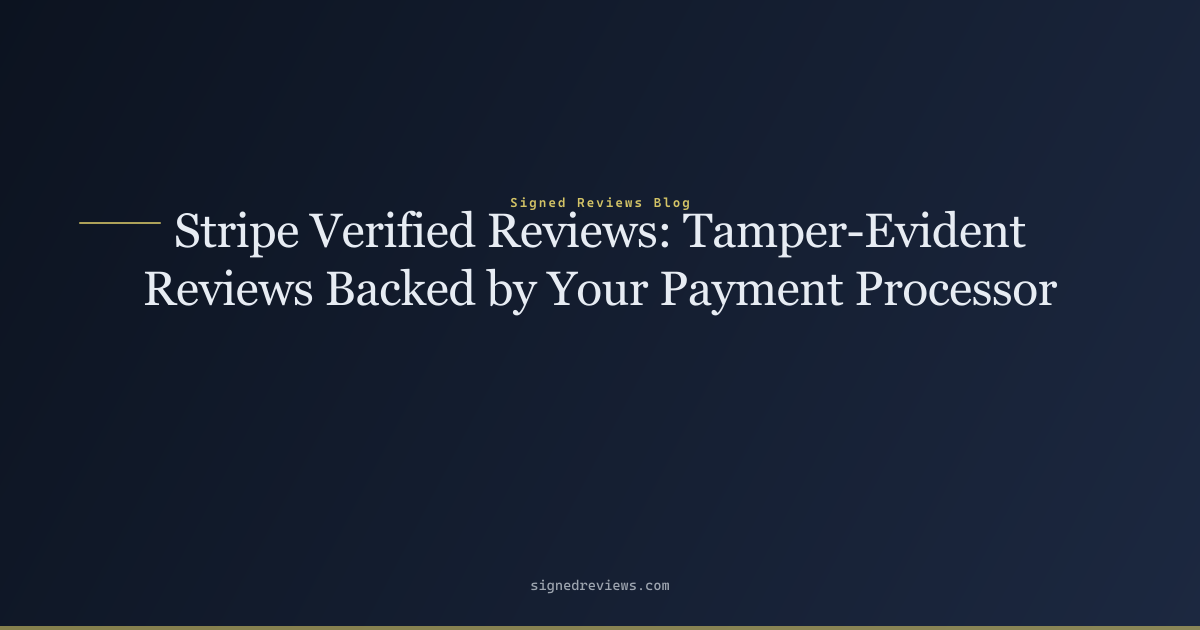
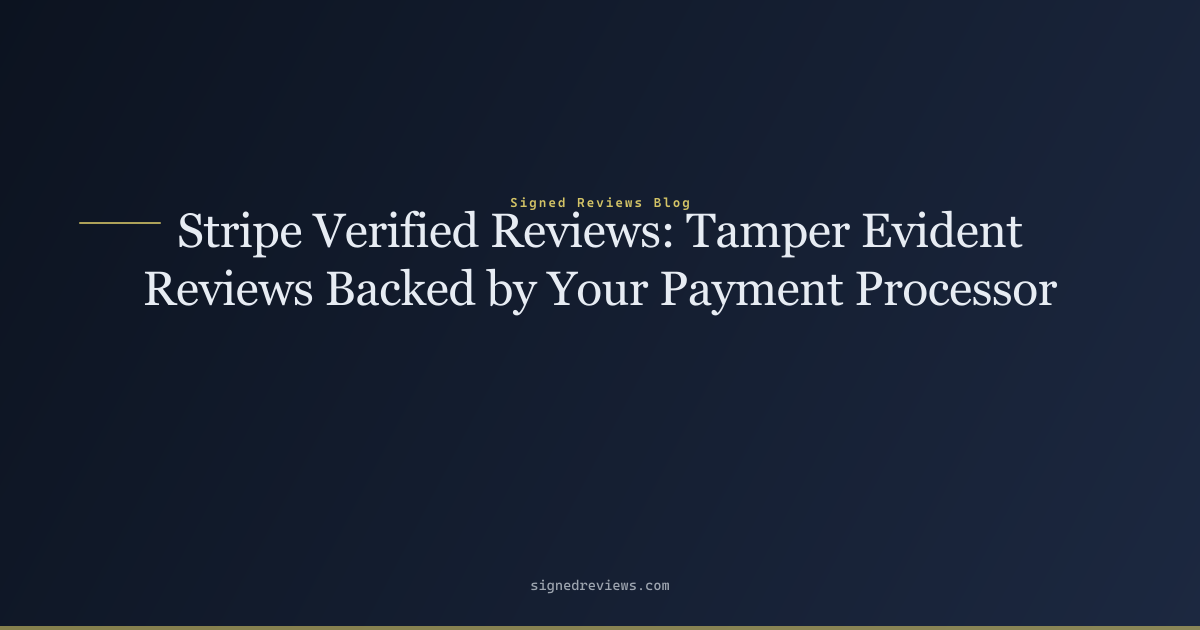
SEO: fix tamper evident reviews — non-hyphenated in title + H2
- Title: use non-hyphenated 'Tamper Evident Reviews' for exact keyword match
- H2: add keyword to 'What makes tamper evident reviews different'

Changed region(s): [[0.1233, 0.3317, 0.8633, 0.4222]]

diff --git a/blog/stripe-verified-reviews/index.html b/blog/stripe-verified-reviews/index.html
@@ -3,20 +3,20 @@
 <head>
   <meta charset="UTF-8">
   <meta name="viewport" content="width=device-width, initial-scale=1.0">
-  <title>Stripe Verified Reviews: Tamper-Evident Reviews Backed by Your Payment Processor — Signed Reviews Blog</title>
+  <title>Stripe Verified Reviews: Tamper Evident Reviews Backed by Your Payment Processor — Signed Reviews Blog</title>
   <meta name="description" content="Here's how Stripe verified reviews work, why tamper evident reviews are fundamentally different from every other &quot;verified&quot; badge, and how to start collecting t">
   <link rel="canonical" href="https://signedreviews.com/blog/stripe-verified-reviews/">
   <meta name="robots" content="index, follow">
   <meta name="theme-color" content="#0c1320">
 
   <meta property="og:type" content="website">
-  <meta property="og:title" content="Stripe Verified Reviews: Tamper-Evident Reviews Backed by Your Payment Processor — Signed Reviews Blog">
+  <meta property="og:title" content="Stripe Verified Reviews: Tamper Evident Reviews Backed by Your Payment Processor — Signed Reviews Blog">
   <meta property="og:description" content="Here's how Stripe verified reviews work, why tamper evident reviews are fundamentally different from every other &quot;verified&quot; badge, and how to start collecting t">
   <meta property="og:url" content="https://signedreviews.com/blog/stripe-verified-reviews/">
   <meta property="og:site_name" content="Signed Reviews">
   <meta property="og:image" content="https://signedreviews.com/images/SignedReviews_full_logo.png">
   <meta name="twitter:card" content="summary_large_image">
-  <meta name="twitter:title" content="Stripe Verified Reviews: Tamper-Evident Reviews Backed by Your Payment Processor — Signed Reviews Blog">
+  <meta name="twitter:title" content="Stripe Verified Reviews: Tamper Evident Reviews Backed by Your Payment Processor — Signed Reviews Blog">
   <meta name="twitter:description" content="Here's how Stripe verified reviews work, why tamper evident reviews are fundamentally different from every other &quot;verified&quot; badge, and how to start collecting t">
 
   <link rel="icon" href="/SignedReviews/favicon.svg" type="image/svg+xml">
@@ -483,7 +483,7 @@ main { padding: 0; }
     })();
   </script>
 
-  <script type="application/ld+json">{"@context":"https://schema.org","@type":"BlogPosting","headline":"Stripe Verified Reviews: Tamper-Evident Reviews Backed by Your Payment Processor","description":"Here's how Stripe verified reviews work, why tamper evident reviews are fundamentally different from every other \"verified\" badge, and how to start collecting t","datePublished":"2026-07-24 ·","author":{"@type":"Organization","name":"Signed Reviews"},"publisher":{"@type":"Organization","name":"Signed Reviews","logo":{"@type":"ImageObject","url":"https://signedreviews.com/images/SignedReviews_logo_only.png"}}}</script>
+  <script type="application/ld+json">{"@context":"https://schema.org","@type":"BlogPosting","headline":"Stripe Verified Reviews: Tamper Evident Reviews Backed by Your Payment Processor","description":"Here's how Stripe verified reviews work, why tamper evident reviews are fundamentally different from every other \"verified\" badge, and how to start collecting t","datePublished":"2026-07-24 ·","author":{"@type":"Organization","name":"Signed Reviews"},"publisher":{"@type":"Organization","name":"Signed Reviews","logo":{"@type":"ImageObject","url":"https://signedreviews.com/images/SignedReviews_logo_only.png"}}}</script>
 </head>
 <body>
   <a class="skip-link" href="#main">Skip to main content</a>
@@ -524,7 +524,7 @@ main { padding: 0; }
     <section class="page-hero">
       <div class="page-hero-inner">
         <span class="eyebrow">Blog</span>
-        <h1>Stripe Verified Reviews: Tamper-Evident Reviews Backed by Your Payment Processor</h1>
+        <h1>Stripe Verified Reviews: Tamper Evident Reviews Backed by Your Payment Processor</h1>
         <p>Here's how Stripe verified reviews work, why tamper evident reviews are fundamentally different from every other "verified" badge, and how to start collecting t</p>
       </div>
     </section>
@@ -608,7 +608,7 @@ main { padding: 0; }
 <p>On most platforms, this costs nothing except time. And unless the platform&#39;s fraud detection catches the pattern, the review stays up.</p>
 <p>This isn&#39;t theoretical. In 2022 alone, Trustpilot removed 2.7 million fake reviews. In 2024, Trustpilot removed <strong>4.5 million</strong> — 7.4% of all reviews submitted. The FTC issued a formal order against SiteJabber in November 2024 for publishing reviews from people who&#39;d never received products. And the UK made fake reviews explicitly illegal as of April 2025.</p>
 <p>Level 3 verification is reactive: platforms detect fake reviews after they&#39;re posted. Level 4 verification is structural: fake reviews can&#39;t be posted in the first place, because you can&#39;t fake a Stripe charge without paying real Stripe fees and risking account closure.</p>
-<h2 id="what-makes-stripe-verified-reviews-different"><a class="anchor" href="#what-makes-stripe-verified-reviews-different" aria-label="Permalink to What makes Stripe verified reviews different">#</a> What makes Stripe verified reviews different</h2>
+<h2 id="what-makes-tamper-evident-reviews-different-from-other-verified-reviews"><a class="anchor" href="#what-makes-tamper-evident-reviews-different-from-other-verified-reviews" aria-label="Permalink to What makes tamper evident reviews different from other verified reviews">#</a> What makes tamper evident reviews different from other verified reviews</h2>
 <h3 id="1-independent-attestation"><a class="anchor" href="#1-independent-attestation" aria-label="Permalink to 1. Independent attestation">#</a> 1. Independent attestation</h3>
 <p>The verification doesn&#39;t come from the merchant. It comes from Stripe — a separate company, a regulated financial institution, and an independent third party to every transaction. Stripe has no incentive to lie about whether a charge occurred, and Signed Reviews has no ability to alter Stripe&#39;s records (the connection is read-only).</p>
 <h3 id="2-tamper-evident-reviews"><a class="anchor" href="#2-tamper-evident-reviews" aria-label="Permalink to 2. Tamper-evident reviews">#</a> 2. Tamper-evident reviews</h3>

diff --git a/blog/index.html b/blog/index.html
@@ -561,7 +561,7 @@ main { padding: 0; }
       <p style="margin:0;color:var(--text);font-size:.95rem;">- Email-verified: reviewer controls the email address (anyone can create one).</p>
     </div>
     <div style="margin-bottom:1.5rem;padding-bottom:1.5rem;border-bottom:1px solid var(--border);">
-      <h2 style="margin:0 0 .3rem;font-size:1.25rem;"><a href="/SignedReviews/blog/stripe-verified-reviews/" style="text-decoration:none;">Stripe Verified Reviews: Tamper-Evident Reviews Backed by Your Payment Processor</a></h2>
+      <h2 style="margin:0 0 .3rem;font-size:1.25rem;"><a href="/SignedReviews/blog/stripe-verified-reviews/" style="text-decoration:none;">Stripe Verified Reviews: Tamper Evident Reviews Backed by Your Payment Processor</a></h2>
       <p class="post-meta" style="color:var(--muted);font-size:.85rem;margin:0 0 .4rem;">2026-07-24 ·</p>
       <p style="margin:0;color:var(--text);font-size:.95rem;">Here's how Stripe verified reviews work, why tamper evident reviews are fundamentally different from every other &quot;verified&quot; badge, and how to start collecting t</p>
     </div>

diff --git a/files/blog/stripe-verified-reviews.md b/files/blog/stripe-verified-reviews.md
@@ -1,4 +1,4 @@
-# Stripe Verified Reviews: Tamper-Evident Reviews Backed by Your Payment Processor
+# Stripe Verified Reviews: Tamper Evident Reviews Backed by Your Payment Processor
 
 **Published:** 2026-07-24 · **Author:** Signed Reviews Team · **Description:** Stripe verified reviews are cryptographically tied to real Stripe transactions — the only review type independently attested by a payment processor, not merchant-supplied data.
 
@@ -65,7 +65,7 @@ This isn't theoretical. In 2022 alone, Trustpilot removed 2.7 million fake revie
 
 Level 3 verification is reactive: platforms detect fake reviews after they're posted. Level 4 verification is structural: fake reviews can't be posted in the first place, because you can't fake a Stripe charge without paying real Stripe fees and risking account closure.
 
-## What makes Stripe verified reviews different
+## What makes tamper evident reviews different from other verified reviews
 
 ### 1. Independent attestation
 
